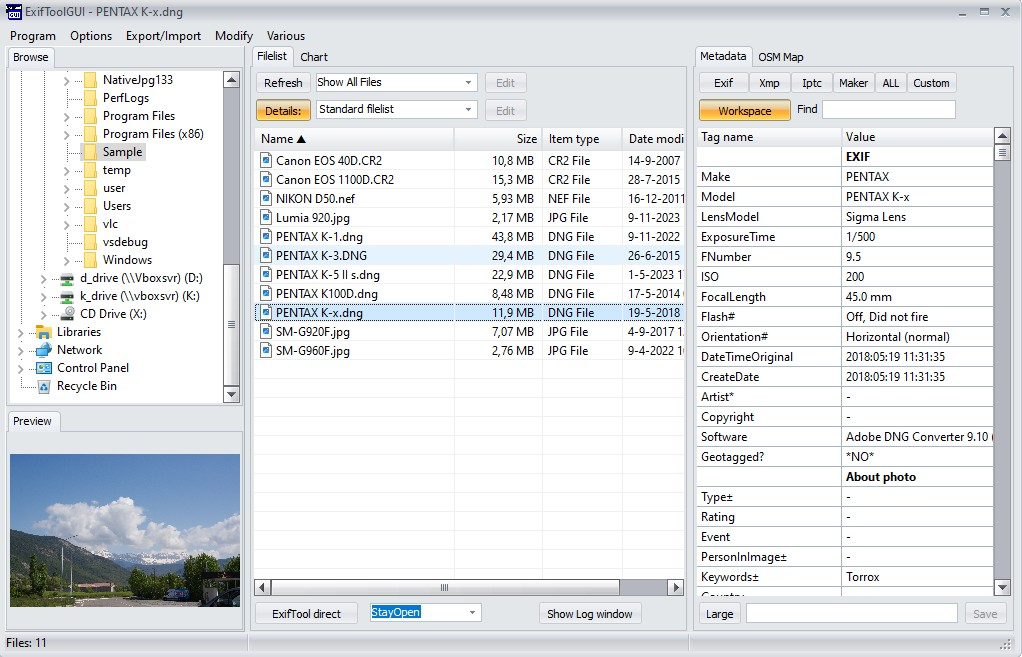
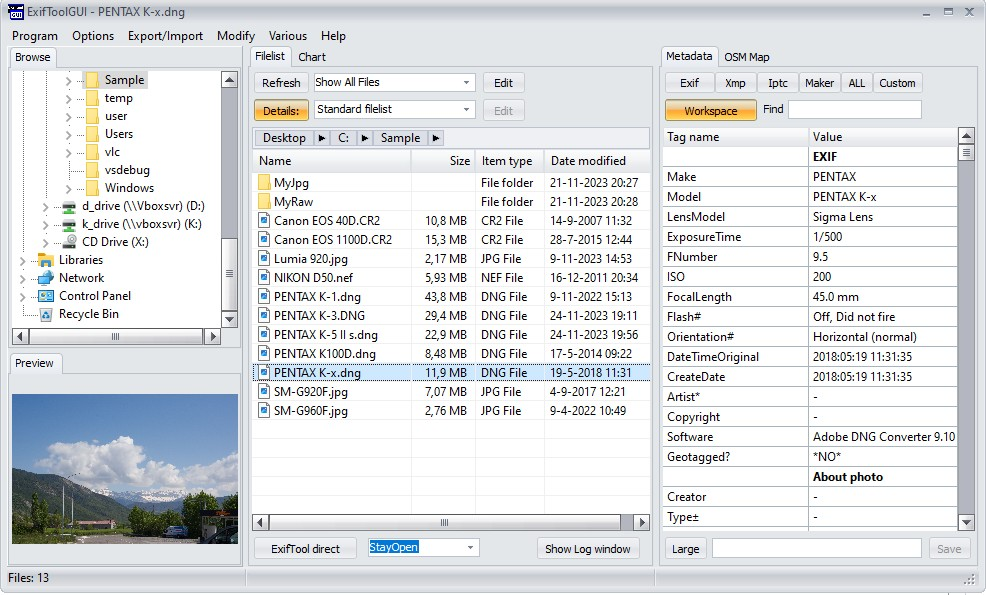
Fix issues for V6.2.7 #197

diff --git a/Docs/ExifToolGUI_V6.md b/Docs/ExifToolGUI_V6.md
@@ -12,6 +12,7 @@
 <h1>ExifToolGUI for Windows v6.xx</h1><hr>
 <h2>Introduction</h2>
 In the summer of 2023 I decided to revive the ExifToolGui project initally created by <b>Bogdan Hrastnik</b>.
+This revival resulted in <b>Version 6</b><br>
 Read his complete documentation <a href="https://htmlpreview.github.io/?https://github.com/FrankBijnen/ExifToolGui/blob/Development/Docs/Original%20notes/ExifToolGUI_V516.htm"><b>here</b></a><br><br>
 This was his intro, I will quote it now, because it still holds for me:<br><br>
 <em>
@@ -27,7 +28,7 @@ The only downside for many potential users is the fact, that ExifTool is
  (GUI), so all work must be done by typing commands inside "Command 
 Prompt" window. Such approach gives ExifTool great flexibility, but is 
 somehow difficult to use -especially for those, who don't use ExifTool 
-regulary.<br>
+regularly.<br>
 <br>
 
 So, I've decided to make some simple ExifTool GUI for my private use. 
@@ -56,15 +57,20 @@ Basic idea behind GUI is, to keep it <u>simple!</u> Thus, only those options are
 <li>Better support for international characters. All internal code now uses Unicode (UTF16), to interface with Exiftool UTF8.</li>
 <li>Enhanced Log Window. The last 10 commands are shown, with their respective output and error. Option to replay the command in PowerShell/Cmd prompt.</li>
 <li>The external programs Jhead.exe and Jpegtran.exe are no longer needed. Rotation, and cropping, are handled in Delphi native code. With a modified library called NativeJpg by SimDesign B.V. (I tried contacting SimDesign to verify the Licence requirements, but was unable to.)</li>
-<li>Exporting and Importing previews has been revised, and offer greater flexability.</li>
+<li>Exporting and Importing previews has been revised, and offer greater flexibility.</li>
 <li>GeoCoding has been enhanced. You can now choose from 2 providers (https://overpass-api.de and https://geocode.maps.co) and lookup City, Province and Country from GPS coordinates AKA reverse GeoCoding.</li>
+<li>Option added to show folders in the FileList panel.</li>
+<li>Possibility to add Custom options to Exiftool.</li>
+<li>Experimental support for <a href="Readme%204K%20monitor.txt"><b>4K monitors.</b></a></li>
 </ul>
 <a href="changelog.txt"><b>See changelog.txt for a complete list of issues.</b></a>
 
+<a name="m_reqs_general">
 <h2>Requirements and preparations</h2>
 ExiftoolGUI should run on Windows 7, 8 32-64bit. However, it is highly recommended to use Windows 10 or 11 when you plan to use the OSM map, or GEOcoding.<br>
 It will not run on Windows XP or earlier!<br>
 
+<a name="m_reqs_exiftool">
 <h3>1. ExifTool</h3>
 You only need to download the "Windows Executable" zip file from <a href="https://exiftool.org/"><b>here</b></a>.
 After unzipping, depending on your Windows Explorer settings, you will see:<font color="CC0000">exiftool(-k)</font> or <font color="CC0000">exiftool(-k).exe</font>
@@ -80,7 +86,7 @@ If you want Windows to be able to always find ExifTool, then add the directory w
 <li>In case you've done something wrong in this regard, you'll see an error message when GUI starts.</li>
 </ul>
 
-<h3>2. ExifToolGUI</h3>
+<h3><a name="m_reqs_exiftoolgui">2. ExifToolGUI</h3>
 You can download GUI from <a href="https://github.com/FrankBijnen/ExifToolGui/releases"><b>here</b></a>.
 GUI doesn't need to be "installed". Just download the executable for your platform (ExifToolGui.exe or ExifToolGui_X64.exe) into any directory, create a Desktop shortcut and GUI is ready to use.<br>
 <br>
@@ -98,7 +104,7 @@ It was decided not to save the INI file in the same directory as the executable,
 </li>
 </ul>
 
-<h3><a name="m_edge">3. Edge browser needed for OSM map<a></h3>
+<h3><a name="m_reqs_exiftoolgui"><a name="m_edge">3. Edge browser needed for OSM map<a></h3>
 If you don't need the OSM map functionality, you can skip this step.<br>
 The OSM map is hosted by an internal web browser based on Edge. There are 2 requirements. The <b>Edge Runtime</b> and the <b>WebView2Loader.dll</b>.
 
@@ -127,15 +133,14 @@ Extract the file 'runtimes\win-x86\native\WebView2Loader.dll' or 'runtimes\win-x
 <a href="https://docwiki.embarcadero.com/RADStudio/Sydney/en/Using_TEdgeBrowser_Component_and_Changes_to_the_TWebBrowser_Component">More info for developers from Embarcadero</a>
 <br>
 
-<h3>4. jhead.exe &amp; jpegtran.exe</h3>
-These files are no longer needed, but can still be used if available.<br>
-The menu-items that use these programs are marked <u>deprecated</u> and will be removed in a next release.</br>
-
-<h3>5. Wish to see thumbnails of raw image files?</h3>
+<h3>4. Wish to see thumbnails of raw image files?</h3>
 Of course you do. What you need is a "raw codec", usually available for free from the camera manufacturer.
 The best I've found so far is "FastPictureViewer codec" (from <a href="http://www.fastpictureviewer.com/codecs/">here</a>).
 It is very fast, covers many raw formats and is free for personal use.<br>
 <a href="Readme Using Codecs.txt"><b>Readme Using Codecs.txt</b></a>
+
+<h3>5. jhead.exe &amp; jpegtran.exe</h3>
+These files are no longer needed.<br>
 <br>
 <br>
 
@@ -249,7 +254,13 @@ If you check this, double-clicking in the Workspace will remove a tag,
 double-clicking on one of the tabs Exif, Xmp, Iptc, Maker, All will add that tag to the Workspace.
 <br><br>
 <b>Exiftool.exe location</b><br>
-If you need to override the location of exiftool.exe you can do that here.
+If you need to override the location of exiftool.exe you can do that here.<br><br>
+<b>Filelist: Show Folders in Filelist</b><br>
+The default setting is to only show files in the Filelist panel. If you enable this option, also folders (directories) will be shown, allowing easier navigation.<br>
+It will also enable a BreadCrumb bar.<br><br>
+<b>Hint pause timeout in Millisecs</b><br>
+Hovering over the metadata panel will display the complete metadata value as a hint. This was added because long values are often not completely visible.<br>
+Setting this value to 0 (zero) will effectively disable the hints.
 <br><br>
 
 <h3><a name="m_workspace">Workspace manager</a></h3>
@@ -391,7 +402,10 @@ next GUI start. Remaining options settings however, are only temporary
 
 <h3>Group tag names by instance (-g4)</h3></font> -This can help you to identify duplicated tags when viewing in <font class="blue">Metadata</font> panel.<br>
 
-<h3>API WindowsWideFile (requires Exiftool v12.66)</h3></font> -Force the use of wide-character Windows I/O functions when the CharsetFileName option is used.<br>
+<h3>API WindowsWideFile (requires Exiftool v12.66)</h3> -Force the use of wide-character Windows I/O functions when the CharsetFileName option is used.<br>
+
+<h3>Custom options</h3> -You can specify additonal options that exiftool should use. Expert option. Normally used with the Log Window.<br>
+Possible use case is the option <b>-htmldump</b> and use the log window to catch the output.<br>
 <br>
 <br>
 <h2><a name="m_exp_imp">Export/Import menu</a></h2>
@@ -540,16 +554,6 @@ cases, that will be the same folder where image files reside.</li>
 ...and that's it.<br>
 <br>
 
-<h3>Extract preview image from selected: raw files (Deprecated)</h3>
-This function has been replaced by <b>Generic extract previews</b> and will be
-removed in a next release.
-<br>
-
-<h3>Embed preview image into selected: raw files (Deprecated)</h3>
-This function has been replaced by <b>Generic import preview</b> and will be
-removed in a next release.
-<br>
-
 <h3>Generic extract previews</h3>
 As you may know raw image files can also contain a JPG image, which serves for
 previewing raw image file content. In most cases, this JPG image is "as
@@ -622,11 +626,6 @@ If you have a backup tool that relies on the Date Modified, it will not notice t
 <img src="ExifToolGUI_V6_files/renamefiles.jpg"><br>
 <br>
 
-<h3>JPG: Lossless autorotate (Deprecated)</h3>
-This menu still uses external program jhead.exe. (if available) But will be removed in a next release. Use the next menu-item.<br>
-<br>
-<br>
-
 <h3>JPG: Lossless autorotate + crop</h3>
 This will physically rotate selected JPG images according to Exif:Orientation value inside files.<br>
 It uses a library NativeJpg by SimDesign B.V. to do the actual rotating. No external program is needed.<br>
@@ -661,7 +660,9 @@ appropriate raw "codec", to be able to see thumbnails and previews.<br>
 <br>
 
 <b>Details</b> drop-down box<br>
--is set to <font class="blue">Standard filelist</font> by default. This drop-down box also contain few predefined details views: <font class="blue">Camera settings, Location info</font> and <font class="blue">About photo</font> -where each of these views shows few metadata values inside files; i.e.:<br> 
+-is set to <font class="blue">Standard filelist</font> by default. This drop-down box also contain few predefined details views:<br>
+<font class="blue">Camera settings, Location info</font> and <font class="blue">About photo</font> -where each of these views shows few metadata values inside files; i.e.:<br> 
+<u><b>Note:</b></u> The Folders and the Breadcrumb bar are shown only when enabled in Preferences/Other.<br>
 <img src="ExifToolGUI_V6_files/filelistcamerasettings.jpg"><br>
 <br>
 
@@ -995,7 +996,7 @@ P.S.: Don't blame me for my English grammar -it's not my native language.<br>
 </em>
 <br>
 Frank<br>
-Modified on November, 2023<br>
+Modified on December, 2023<br>
 <br>
 
 <u>You may find additional info in the ReadMe files:</u>
@@ -1003,6 +1004,7 @@ Modified on November, 2023<br>
 <li><a href="ReadMe for Developers.txt">ReadMe for Developers</a></li>
 <li><a href="..\Source\Vcl.ShellControls\ReadMe.txt">ReadMe ShellControls</a></li>
 <li><a href="..\Source\NativeJpg\README.txt">ReadMe NativeJpg</a></li>
+<li><a href="..\Source\BeadcrumbBar\README.txt">ReadMe Breaddcrum Bar</a></li>
 <li><a href="ReadMe for Users.txt">ReadMe for Users</a></li>
 <li><a href="Readme GeoCoding.txt">Readme GeoCoding</a></li>
 <li><a href="Readme Long filenames.txt">Readme Long filenames</a></li>

diff --git a/README.md b/README.md
@@ -1,41 +1,28 @@
 # ExifToolGui
-A GUI for ExifTool
-
-Current version: <b>V6.2.6</b> updated November 25, 2023.
-Just a few small fixes. And some typos found when updating the docs.
-[Online documentation available](https://htmlpreview.github.io/?https://github.com/FrankBijnen/ExifToolGui/blob/main/Docs/ExifToolGUI_V6.md)
-
-Previous version: <b>V6.2.5</b> updated November 12, 2023.
-The V6.2.5 release features 2 major changes.<br>
-1) [GeoCoding](/Docs/Readme%20GeoCoding.txt) You can now choose from 2 GeoCoding providers, and use Reverse GeoCoding to lookup Country, Province and City from GPS coordinates.<br>
-2) [Lossless rotate and crop, import and export previews](/Docs/Readme%20Lossless%20rotate_Import_Export%20previews.txt) The external programs Jhead and JpegTrans are replaced by native Delphi code, using a modified library NativeJpg by SimDesign B.V. Exporting and Importing previews has been revised.<br>
-
-Besides these 2 updates, some smaller updates/bugfixes were applied. See the [ChangeLog](Docs/changelog.txt) for more info.
-
-I have noticed that recently ExifToolGui is downloaded from sites that propagate portable use. Please read [Portable use](/Docs/Readme%20Portable.txt) for more info.
-
-Important: <br>
-To help Bug hunting there are also Map files released. If you place the Map file in the same directory as the Executable
-a stacktrace can be copied to the clipboard if an Exception occurs. Please also provide the stacktrace if you report an Exception.
+<h4>A GUI for ExifTool</h4>
 
 This is an updated version of the ExifToolGui program created by Bogdan Hrastnik. Many thanks go out to him.
 
-This updated source addresses the following issues.
+Current version: <b>V6.2.7</b> updated December 25, 2023.<br>
+- Added peek preview for metadata panel. Shown as hint.<br>
+- Added option to show Folders in filelist, including a Breadcrumb Bar.<br>
+- Added option to add custom tags to Exiftool.<br>
+- Fix for generated Powershell script.<br>
+- Style fixes for Green.<br>
+- Experimental support for [4K Monitors](Docs/Readme%204K%20monitor.txt).<br>
 
-1) Compiles with Delphi Community Edition. Without any 3rd party libraries.
-2) Added styles.
-3) Image preview is done with WIC. The autorotate should be available for more formats then just JPG
-4) The Google Map is replaced by OSM map. The internal browser is now based on Edge, and not on IE.
+[Change log](Docs/changelog.txt)<br>
+[Download Release](https://github.com/FrankBijnen/ExifToolGui/releases/latest)<br>
 
- To achieve this the source had to be modified quite a lot. Dont expect a flawless product.
+<h4>Important</h4>
 
- See also:
- - [Readme for Users](Docs/ReadMe%20for%20Users.txt)
- - [Docs directory](Docs/)
+- [Please <b>read</b> the Requirements and preparation](https://github.com/FrankBijnen/ExifToolGui/blob/main/Docs/ExifToolGUI_V6.md/#m_reqs_general)<br>
+- To help Bug hunting there are also Map files released. If you place the Map file in the same directory as the Executable
+a stacktrace can be copied to the clipboard if an Exception occurs. Please also provide the stacktrace if you report an Exception.<br>
 
 # Useful links
 
-<h4>Obtaining Exiftool.</h4>
+<h4>Obtaining Exiftool</h4>
 
 1) The original version by Phil Harvey. https://exiftool.org/ <br>
    Download the zip file called: Windows Executable: exiftool-xx.yy.zip. <br>
@@ -44,16 +31,14 @@ This updated source addresses the following issues.
 
 2) An installer provided by Oliver Betz. https://oliverbetz.de/pages/Artikel/ExifTool-for-Windows
 
-<h4>Obtaining WebWiew2Loader.dll.</h4>
+<h4>Obtaining WebWiew2Loader.dll</h4>
 
 -  https://nuget.info/packages/Microsoft.Web.WebView2/
--  See [Readme for Users](Docs/ReadMe%20for%20Users.txt) for more info.
 
-<h4>Online Documentation.</h4>
-
- - [V516 Documentation html](https://htmlpreview.github.io/?https://github.com/FrankBijnen/ExifToolGui/blob/main/Docs/Original%20notes/ExifToolGUI_V516.htm)
+<h4>Online Documentation</h4>
 
  - [V6 Documentation html](https://htmlpreview.github.io/?https://github.com/FrankBijnen/ExifToolGui/blob/main/Docs/ExifToolGUI_V6.md)
  - [V6 Documentation md](/Docs/ExifToolGUI_V6.md)
+ - [Docs directory](Docs/)
 
 Frank
